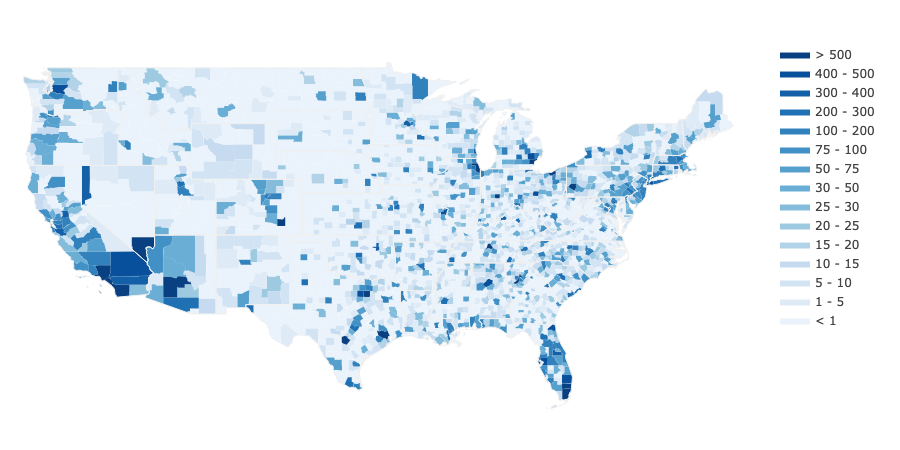
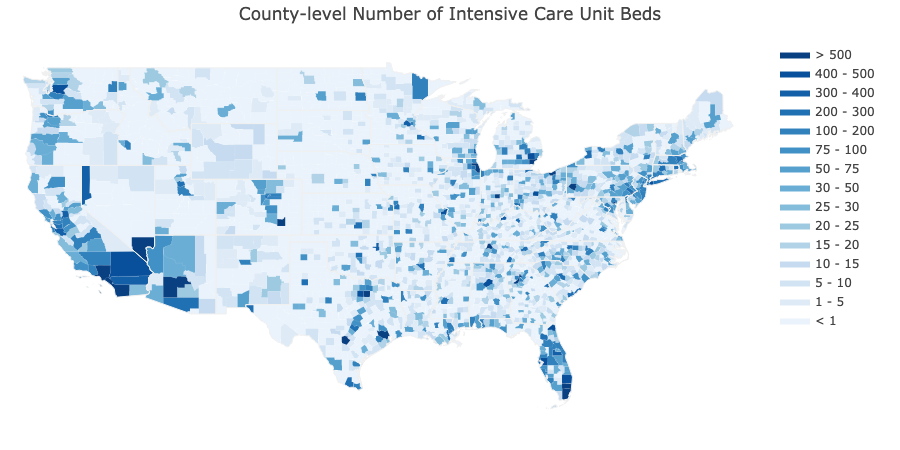
updated figure with title

Changed region(s): [[0.28, 0.0, 0.7467, 0.0622]]

diff --git a/scripts/make_beds.py b/scripts/make_beds.py
@@ -37,8 +37,8 @@ def plot_counties(fips, values):
     binning_endpoints=binning_endpoints,
     county_outline={'color': 'rgb(255,255,255)', 'width': 0.05},
     colorscale=colorscale,
-    round_legend_values=True
-    # title='Total Intensive Care Unit Beds'
+    round_legend_values=True,
+    title='County-level Number of Intensive Care Unit Beds'
   )
   fig.layout.template = None
   return fig

diff --git a/README.md b/README.md
@@ -1,6 +1,6 @@
 # County-level Socioeconomic Data for Predictive Modeling of Epidemiological Effects
 
-![icubeds](visualizations/icu_beds.png "icubeds")
+![County-level Number of Intensive Care Unit Beds](visualizations/icu_beds.png "icubeds")
 
 **TL/DR:** We gather a *machine readable* dataset related to socioeconomic factors that may affect the spread and/or consequences of epidemiological outbreaks, particularly the novel coronavirus (COVID-19). This dataset is envisioned to serve the data science, machine learning, and epidemiological modeling communities. If you want to contribute, please let us know!
 
